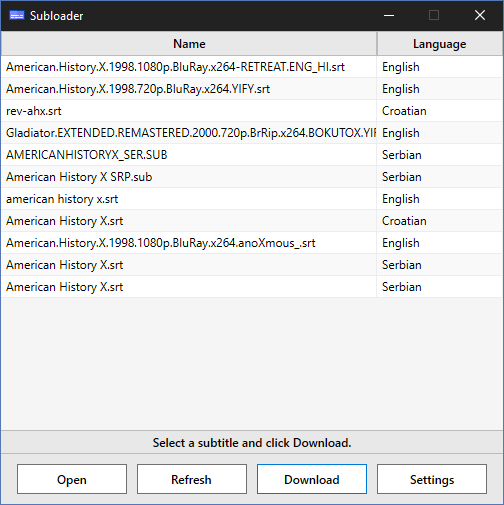
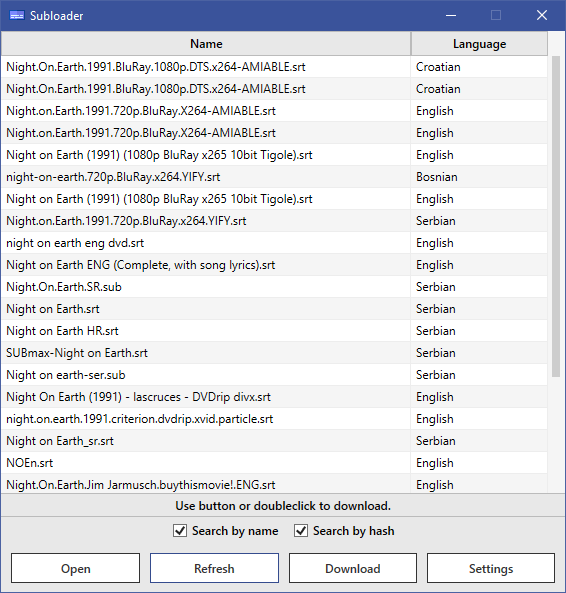
readme changes and new screenshots

Changed region(s): [[0.0, 0.0, 1.0, 1.0]]

diff --git a/SubloaderWpf/Views/TheWindow.xaml b/SubloaderWpf/Views/TheWindow.xaml
@@ -17,6 +17,7 @@
     FontFamily="Segoe UI Semibold"
     RenderOptions.BitmapScalingMode="HighQuality"
     ResizeMode="CanMinimize"
+    Topmost="true"
     UseLayoutRounding="True"
     WindowStartupLocation="CenterScreen"
     mc:Ignorable="d">

diff --git a/README.md b/README.md
@@ -7,7 +7,7 @@
 
 **Subloader** is a simple and minimalistic software written in **C#** and **.NET Core 3.1** that enables you to quickly find and download subtitles for your movies and TV Shows. It interfaces with **Opensubtitles** database by using REST API for searching and downloading subtitles.
 
-Subloader searches subtitles by using a special file hash. This enables the user to get the best possible search results for their video file. **Installer** will also add an entry to **right click context menu** of **.avi**, **.mkv** and **.mp4** files for easy access. **Note:** This feature might not work on Windows 7.
+Subloader searches subtitles by using a special file hash. This enables the user to get the best possible search results for their video file. **Installer** will also add an entry to **right click context menu** of **.avi**, **.mkv** and **.mp4** files for easy access. It will also follow Windows 10 accent color for UI main color.
 
 Search and download is provided by **[Opensubtitles](http://www.opensubtitles.org/)**. Big thanks to their team for this great project. Please consider showing your appreciation by **[supporting them](https://www.opensubtitles.org/en/support)**.
 
@@ -21,11 +21,11 @@ Download the **[latest version of Subloader](https://github.com/Valyreon/Subload
 
 Subloader can be opened from Start Menu, and then using the 'Open' button you can choose a video file. Search will begin immediately. 
 
-After the search is complete, you can select a subtitle from the list and click 'Download'. 
+After the search is complete, you can select a subtitle from the list and click 'Download' or doubleclick the subtitle. 
 
 When you click 'Download' Subloader will download subtitle in the same directory where video file is, under the same name and appropriate extension. If there is an existing subtitle with the same name, it will overwrite it.
 
-Depending on the time of day, Opensubtitles server will sometimes be busy and you will get a 'Server error'. In that case, just click 'Refresh' until it responds.
+Depending on the time of day, Opensubtitles server will sometimes be busy and you will get a 'Service temporarily unavailable'. In that case, try clicking 'Refresh' a few times.
 
 Installer will also add 'Find subtitles' menu in right click context menu of .avi, .mkv and .mp4 files for easy access.
 
@@ -36,8 +36,10 @@ SubLoader now has a working UI for configuring wanted subtitle languages. You ca
 Icon made by **[Freepik](https://www.flaticon.com/authors/freepik)** from **[Flaticon](https://www.flaticon.com )**.
 
 ### Screenshots
-![](https://raw.githubusercontent.com/Valyreon/Subloader/master/screenshot.png)
-![](https://raw.githubusercontent.com/Valyreon/Subloader/master/screenshot2.png)
+| | | |
+|:-------------------------:|:-------------------------:|:-------------------------:|
+|<img width="1604" alt="screenshot 1" src="https://raw.githubusercontent.com/Valyreon/Subloader/master/screenshot.png">  |  <img width="1604" alt="screen shot 2017-08-07 at 12 18 15 pm" src="https://raw.githubusercontent.com/Valyreon/Subloader/master/screenshot2.png">|<img width="1604" alt="screen shot 2017-08-07 at 12 18 15 pm" src="https://raw.githubusercontent.com/Valyreon/Subloader/master/screenshot3.png">|
+
 ### To do
 - ~~**Language settings window**~~
   
